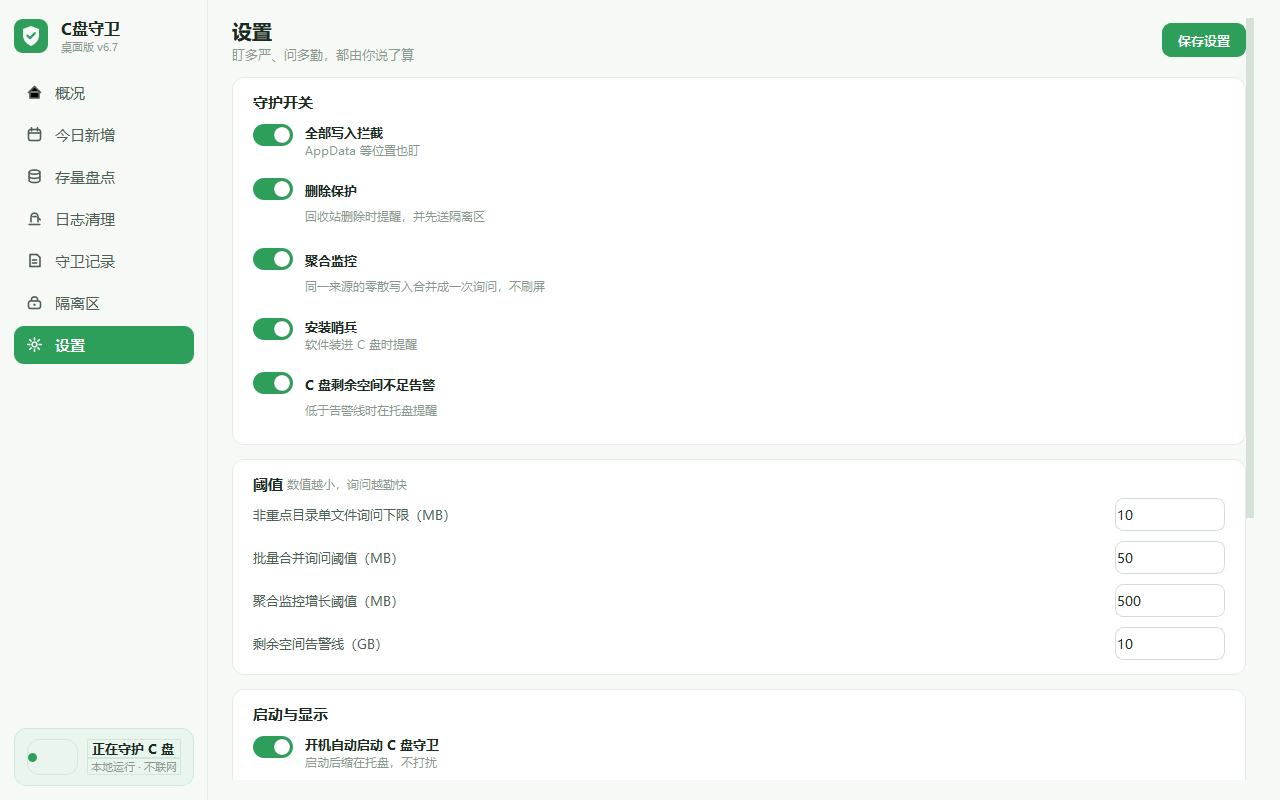
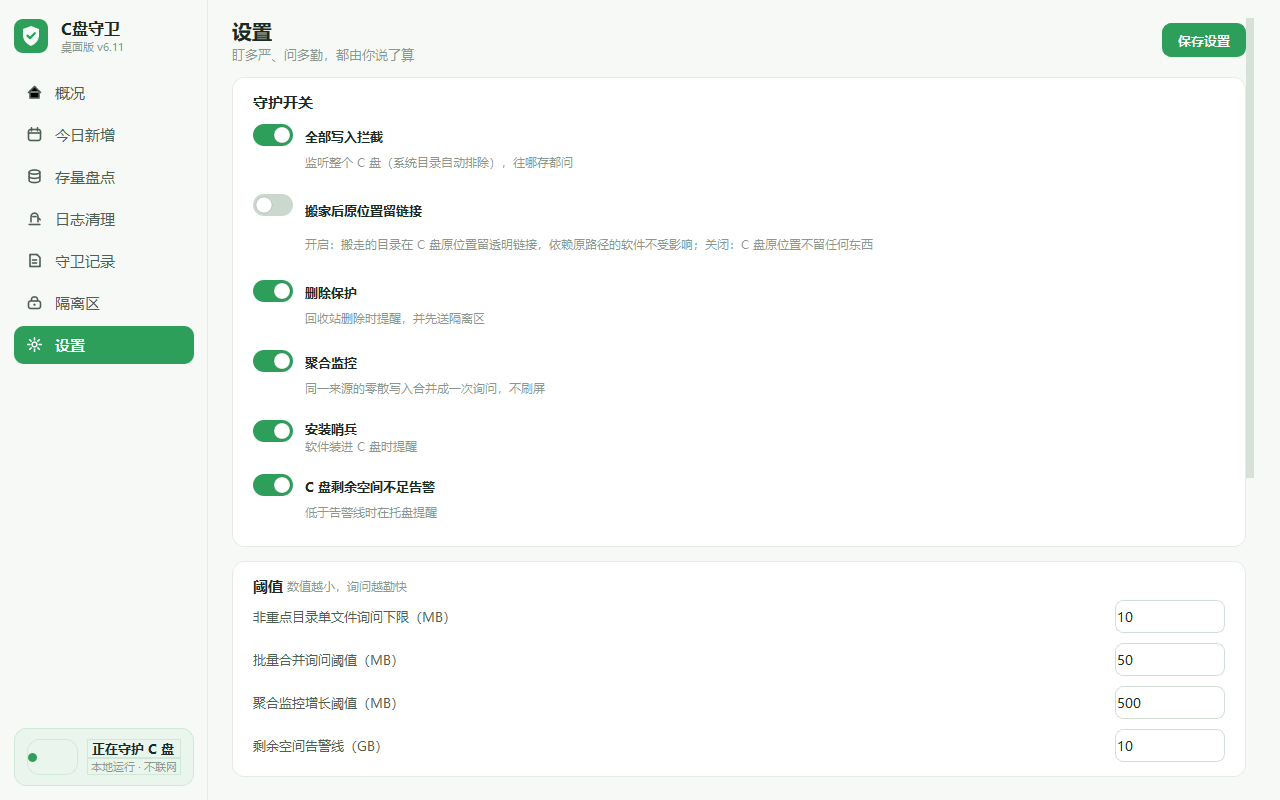
v6.11：启动配置消毒（强制系统盘监控根+坏路径自动纠正）+ 概况页环境自检卡（换机排障）

diff --git a/guard_gui.py b/guard_gui.py
@@ -71,6 +71,7 @@ import guard_theme as GT
 from guard_bridge import bridge, IDYES, IDNO, IDCANCEL, IDOK
 
 APP_NAME = "C盘守卫"
+APP_VERSION = "6.11"
 ICON_PATH = _resource("guard_icon.ico")
 MB = engine  # 常量速记
 
@@ -1044,7 +1045,7 @@ class MainWindow(QMainWindow):
         super().__init__()
         self.guard = guard
         self.scanner = guard.today
-        self.setWindowTitle(f"{APP_NAME} · 桌面版 v6.7 — 正在守护 C 盘")
+        self.setWindowTitle(f"{APP_NAME} · 桌面版 v{APP_VERSION} — 正在守护 C 盘")
         self.resize(1180, 720)
         self.setMinimumSize(1000, 640)
         self.scan_thread = None
@@ -1081,7 +1082,7 @@ class MainWindow(QMainWindow):
         bt.setSpacing(0)
         t1 = QLabel("C盘守卫")
         t1.setStyleSheet(f"font-weight:700;font-size:{GT.human_font(16)}pt;")
-        t2 = QLabel("桌面版 v6.7")
+        t2 = QLabel(f"桌面版 v{APP_VERSION}")
         t2.setStyleSheet(f"color:{GT.C['ink3']};font-size:{GT.human_font(11)}pt;")
         bt.addWidget(t1)
         bt.addWidget(t2)
@@ -1209,6 +1210,8 @@ class MainWindow(QMainWindow):
         # 存量盘点：进入就有上次的结果可看（没有就显示一句引导）
         QTimer.singleShot(1500, self._fill_legacy_overview)
         QTimer.singleShot(1600, self._fill_legacy_rows)
+        # 环境自检：等引擎监听线程起来之后再刷新一次
+        QTimer.singleShot(2500, self.refresh_selfcheck)
 
     # ---------- 概况 ----------
     @staticmethod
@@ -1338,6 +1341,9 @@ class MainWindow(QMainWindow):
         hl.addLayout(info, 1)
         lay.addWidget(hero)
 
+        # ---- 环境自检卡（v6.11）：换电脑后一眼看出为什么没拦截 ----
+        lay.addWidget(self._build_selfcheck_card())
+
         # ---- 全部磁盘总览 ----
         lay.addWidget(GT.section_title("全部磁盘总览"))
         self.drive_box = QFrame()
@@ -1382,6 +1388,132 @@ class MainWindow(QMainWindow):
 
         self._refresh_home()          # 内部会一并刷新「全部磁盘总览」
         return w
+
+    # ---------- 环境自检（v6.11：换电脑排障） ----------
+    def _build_selfcheck_card(self):
+        card = QFrame()
+        card.setProperty("card", True)
+        v = QVBoxLayout(card)
+        v.setContentsMargins(22, 16, 22, 16)
+        v.setSpacing(10)
+
+        head = QHBoxLayout()
+        t = QLabel("环境自检")
+        t.setStyleSheet(f"font-size:{GT.human_font(15)}pt;font-weight:700;")
+        sub = QLabel("换电脑后如果「读不到 C 盘 / 不弹拦截」，看这里就能定位原因")
+        sub.setStyleSheet(f"color:{GT.C['ink3']};font-size:{GT.human_font(12)}pt;")
+        sub.setWordWrap(True)
+        head.addWidget(t)
+        head.addSpacing(10)
+        head.addWidget(sub, 1)
+        self.sc_pill = QLabel("检测中…")
+        self.sc_pill.setStyleSheet(
+            f"background:{GT.C['blue_soft']};color:#2A5C8F;font-weight:600;"
+            f"font-size:{GT.human_font(12)}pt;border-radius:10px;padding:3px 12px;")
+        head.addWidget(self.sc_pill)
+        v.addLayout(head)
+
+        self.sc_text = QLabel()
+        self.sc_text.setWordWrap(True)
+        self.sc_text.setTextInteractionFlags(
+            Qt.TextInteractionFlag.TextSelectableByMouse)
+        self.sc_text.setStyleSheet(
+            f"font-size:{GT.human_font(12)}pt;color:{GT.C['ink2']};line-height:150%;")
+        v.addWidget(self.sc_text)
+
+        btns = QHBoxLayout()
+        btns.addStretch(1)
+        b1 = GT.style_button(QPushButton("重新检测"), None)
+        b1.clicked.connect(self.refresh_selfcheck)
+        b2 = GT.style_button(QPushButton("复制诊断信息"), None)
+        b2.clicked.connect(self._copy_selfcheck)
+        b1.setMinimumHeight(36)
+        b2.setMinimumHeight(36)
+        btns.addWidget(b1)
+        btns.addWidget(b2)
+        v.addLayout(btns)
+        return card
+
+    def _selfcheck_lines(self, for_copy=False):
+        """收集环境自检信息。for_copy=True 时输出纯文本（复制给开发者排查）。"""
+        g = self.guard
+        br = []
+        br.append(f"程序版本：v{APP_VERSION}")
+        try:
+            import platform
+            br.append("操作系统：{} {}".format(
+                platform.system(), platform.win32_ver()[0]))
+        except Exception:
+            pass
+        br.append("当前用户目录（USERPROFILE）：{}".format(
+            os.environ.get("USERPROFILE", "?")))
+        br.append("数据目录：{}（{}）".format(
+            APP_DIR, "便携模式·exe同目录" if APP_DIR.parent == EXE_DIR
+            or APP_DIR == EXE_DIR else "已回退到 LOCALAPPDATA（exe 位置只读）"))
+
+        cfgp = engine.CONFIG_PATH
+        br.append("配置文件：{}（{}）".format(
+            cfgp, "已生成本机配置" if cfgp.exists() else "尚未生成（首次运行会自动生成）"))
+
+        roots = g.config.get("全盘监控根", [])
+        br.append("监控范围：{}（系统盘全盘，系统目录自动排除；排除词 {} 条）".format(
+            "、".join(roots) if roots else "未配置！",
+            len(g.config.get("排除路径关键词", []))))
+        mon = g.config.get("监控目录", {})
+        miss = [k for k, v in mon.items() if v and not os.path.isdir(v)]
+        br.append("重点目录：{} 个，{} 存在".format(
+            len(mon), "全部" if not miss else "有缺失: " + ",".join(miss)))
+
+        ws = getattr(g, "watchers", [])
+        if ws:
+            ok = sum(1 for w in ws if w.ok)
+            errs = "; ".join("{}: {}".format(w.root, w.error)
+                             for w in ws if not w.ok and w.error)
+            br.append("监听线程：{} 个，正常 {} 个{}".format(
+                len(ws), ok, "" if not errs else "，异常 → " + errs))
+        else:
+            br.append("监听线程：0 个 —— 全盘拦截未启动！")
+        return br
+
+    def refresh_selfcheck(self):
+        """刷新概况页的环境自检卡。"""
+        if not hasattr(self, "sc_text"):
+            return
+        try:
+            br = self._selfcheck_lines()
+            ok_watch = bool(getattr(self.guard, "watchers", [])) and \
+                any(w.ok for w in self.guard.watchers)
+            cfg_ok = engine.CONFIG_PATH.exists()
+            if ok_watch and cfg_ok:
+                self.sc_text.setText("\n".join("· " + x for x in br))
+                self.sc_pill.setText("✓ 本机适配正常，拦截已生效")
+                self.sc_pill.setStyleSheet(
+                    f"background:{GT.C['green_soft']};color:{GT.C['green_deep']};"
+                    f"font-weight:600;font-size:{GT.human_font(12)}pt;"
+                    f"border-radius:10px;padding:3px 12px;")
+            else:
+                self.sc_text.setText(
+                    "\n".join("· " + x for x in br) +
+                    "\n❗ 拦截未生效：若是 Windows 提示「已保护你的电脑」，请点「更多信息」"
+                    "→「仍要运行」；若被杀毒软件拦截，请把 C盘守卫.exe 加入信任。")
+                self.sc_pill.setText("⚠ 拦截未生效")
+                self.sc_pill.setStyleSheet(
+                    f"background:{GT.C['red_soft']};color:#A03030;"
+                    f"font-weight:600;font-size:{GT.human_font(12)}pt;"
+                    f"border-radius:10px;padding:3px 12px;")
+        except Exception:
+            pass
+
+    def _copy_selfcheck(self):
+        try:
+            txt = "C盘守卫环境诊断（{}）\n".format(
+                datetime.datetime.now().strftime("%Y-%m-%d %H:%M")) + \
+                "\n".join(self._selfcheck_lines(for_copy=True))
+            QApplication.clipboard().setText(txt)
+            QMessageBox.information(self, "已复制",
+                                    "诊断信息已复制到剪贴板，可直接粘贴发给开发者排查。")
+        except Exception as e:
+            QMessageBox.warning(self, "复制失败", str(e))
 
     def _style_home_pill(self, kind):
         colors = {"ok": (GT.C["green_soft"], GT.C["green_deep"]),
@@ -2722,6 +2854,7 @@ class MainWindow(QMainWindow):
 
     def _auto_refresh(self):
         self._refresh_home()
+        self.refresh_selfcheck()
         # 切到别的盘时不要自动重刷列表，免得把用户正在看的结果冲掉
         if getattr(self, "_cur_drive", None) not in (None, guard_drives.system_letter()):
             return

diff --git a/c_disk_guard.py b/c_disk_guard.py
@@ -732,17 +732,45 @@ class Guard:
         except Exception:
             pass
 
-        # 监控范围升级：老版本只监听用户目录（C:\Users\<用户>），把文件复制/移动
-        # 到 C 盘根目录或其他位置不会触发询问。统一升级为监听整个 C 盘，
-        # 并补齐新增的系统目录排除词（旧配置里没有，不补会噪音爆炸）。
-        if cfg.get("全盘拦截") and list(cfg.get("全盘监控根") or []) != ["C:\\"]:
-            cfg["全盘监控根"] = ["C:\\"]
+        # 监控范围升级（v6.11 加固）：老版本只监听用户目录（C:\Users\<用户>），
+        # 把文件复制/移动到 C 盘根目录或其他位置不会触发询问。
+        # 统一升级为监听「系统盘根目录」（用 %SystemDrive% 动态取，任何电脑都对），
+        # 不再信配置里写死的值——哪怕配置被改坏/从别的电脑带过来，这里都会纠正。
+        _sys_root = (os.environ.get("SystemDrive") or "C:").rstrip("\\") + "\\"
+        if list(cfg.get("全盘监控根") or []) != [_sys_root]:
+            cfg["全盘监控根"] = [_sys_root]
             need_write = True
+        # 注：全盘拦截开关（全盘拦截: true/false）尊重用户在设置页的选择，不在此强制。
         kws = list(cfg.get("排除路径关键词") or [])
         miss = [k for k in DEFAULT_CONFIG["排除路径关键词"] if k not in kws]
         if miss:
             cfg["排除路径关键词"] = kws + miss
             need_write = True
+
+        # 换电脑兜底：监控目录若在本机不存在（比如软件目录被改过名），
+        # 改指当前用户下的同名目录，绝不让监控落在一个不存在的路径上。
+        try:
+            _mon = cfg.get("监控目录")
+            if isinstance(_mon, dict):
+                for _k, _v in list(_mon.items()):
+                    if _v and not os.path.isdir(_v):
+                        _alt = C_USER / Path(_v).name
+                        if os.path.isdir(_alt):
+                            _mon[_k] = str(_alt)
+                            need_write = True
+            _agg = cfg.get("聚合监控目录")
+            if isinstance(_agg, list):
+                _agg2 = []
+                for _v in _agg:
+                    if _v and not os.path.isdir(_v):
+                        _alt = C_USER / Path(_v).name
+                        _v = str(_alt) if os.path.isdir(_alt) else _v
+                    _agg2.append(_v)
+                if _agg2 != _agg:
+                    cfg["聚合监控目录"] = _agg2
+                    need_write = True
+        except Exception:
+            pass
 
         if need_write:
             try:

diff --git a/_test_intercept.py b/_test_intercept.py
@@ -135,6 +135,36 @@ def main():
         ck("C 盘根新文件不排除", not g.is_excluded(r"C:\U盘文件\setup.exe"))
         ck("用户目录新文件不排除", not g.is_excluded(r"C:\Users\演示\Desktop\照片.jpg"))
 
+        # ============ 5b. v6.11 换机消毒：坏配置一律纠正 ============
+        print("[5b] v6.11 换机消毒")
+        sd = os.environ.get("SystemDrive", "C:").rstrip("\\") + "\\"
+        bad = tmp / "config_bad.json"
+        bad.write_text(json.dumps({
+            "全盘拦截": True,
+            "全盘监控根": ["Z:////不存在"],
+        }, ensure_ascii=False), encoding="utf-8")
+        (tmp / "config.json").write_text(bad.read_text(encoding="utf-8"),
+                                         encoding="utf-8")
+        g2 = engine.Guard()
+        ck("监控根被纠正为系统盘根", g2.config["全盘监控根"] == [sd],
+           str(g2.config["全盘监控根"]))
+        # 用户主动关全盘拦截时，监控根仍被纠正，但开关不被偷偷打开
+        (tmp / "config.json").write_text(json.dumps({
+            "全盘拦截": False, "全盘监控根": [],
+        }, ensure_ascii=False), encoding="utf-8")
+        g3 = engine.Guard()
+        ck("尊重全盘拦截开关(false)", g3.config.get("全盘拦截") is False)
+        ck("监控根仍纠正", g3.config["全盘监控根"] == [sd])
+        # 重点目录指向不存在的旧电脑路径 → 改指当前用户同名目录
+        home = Path(os.environ.get("USERPROFILE", str(Path.home())))
+        (tmp / "config.json").write_text(json.dumps({
+            "监控目录": {"桌面": r"C://Users//别人//Desktop"},
+        }, ensure_ascii=False), encoding="utf-8")
+        g4 = engine.Guard()
+        ck("重点目录纠正到当前用户",
+           g4.config["监控目录"]["桌面"] == str(home / "Desktop"),
+           str(g4.config["监控目录"]))
+
         # ============ 6. 监控根合法性 ============
         print("[6] start_watchers 输入")
         roots = g.start_watchers()

diff --git a/guard_appdir.py b/guard_appdir.py
@@ -311,7 +311,7 @@ def _relocate_one(path_str: str, home: Path):
 def relocate_user_paths(cfg: dict) -> dict:
     """就地修正配置里所有指向「别人用户目录」的路径。
 
-    覆盖：监控目录 / 全盘监控根 / 删除保护目录 / 聚合监控目录。
+    覆盖：监控目录 / 全盘监控根 / 删除保护目录 / 聚合监控目录 / 安装监控目录。
     返回 {'changed': [改动说明]}
     """
     home = current_user_home()
@@ -333,7 +333,7 @@ def relocate_user_paths(cfg: dict) -> dict:
 
     if isinstance(cfg.get("监控目录"), dict):
         fix_map(cfg["监控目录"])
-    for key in ("全盘监控根", "删除保护目录", "聚合监控目录"):
+    for key in ("全盘监控根", "删除保护目录", "聚合监控目录", "安装监控目录"):
         if isinstance(cfg.get(key), list):
             fix_list(cfg[key])
     return {"changed": changed}
